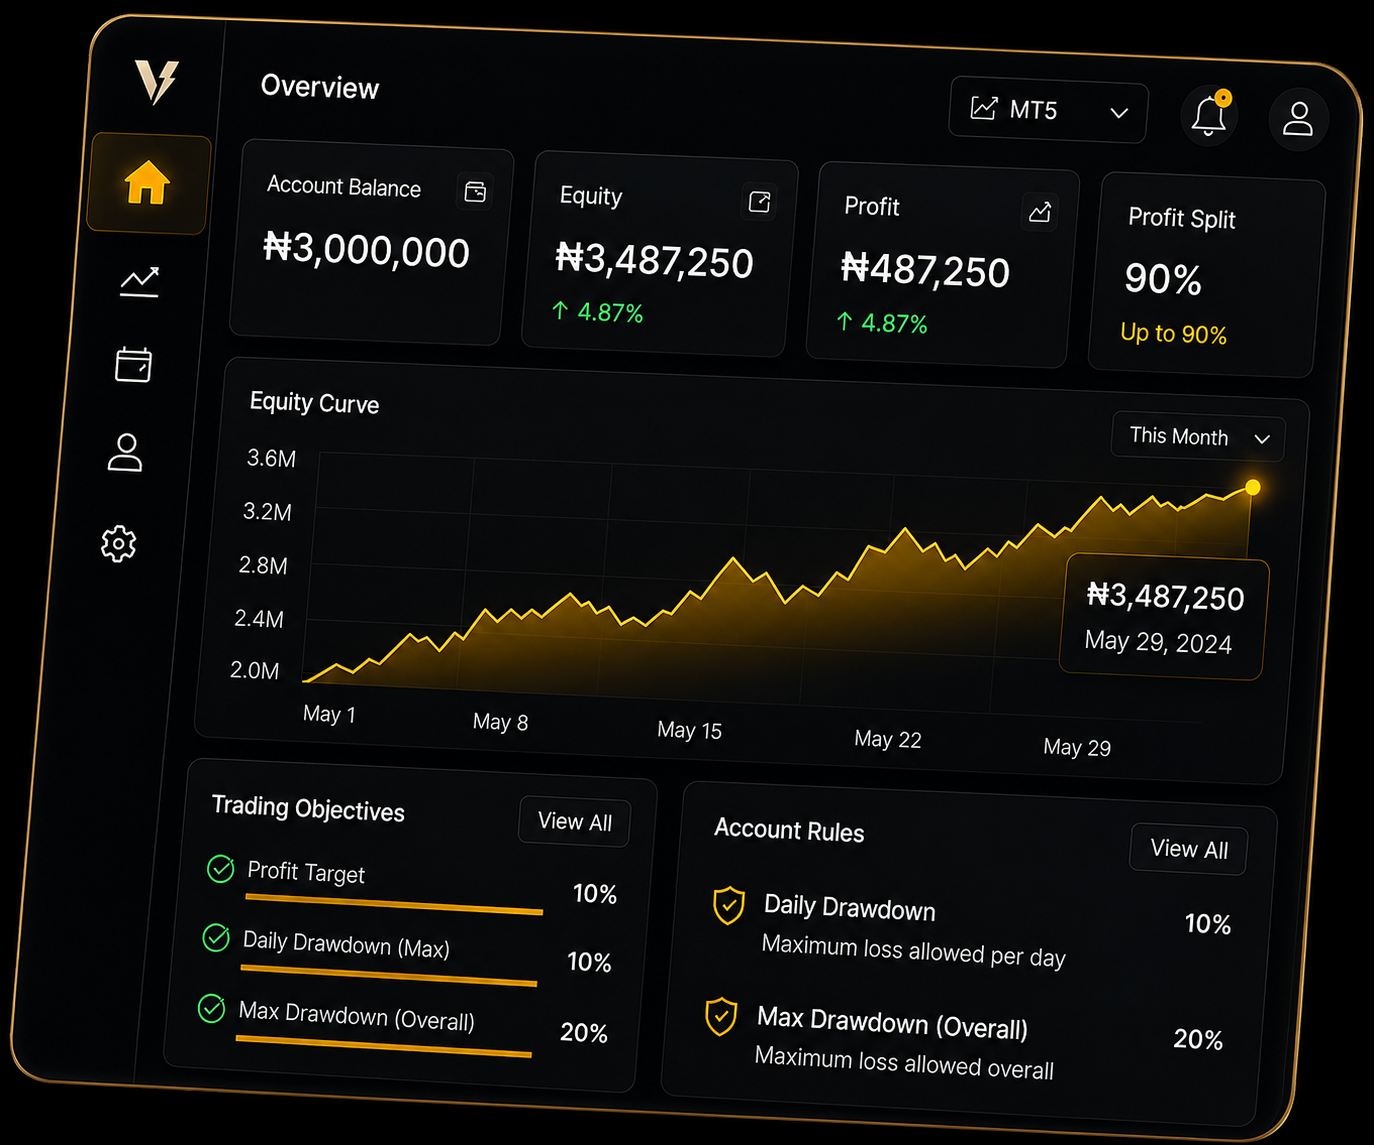
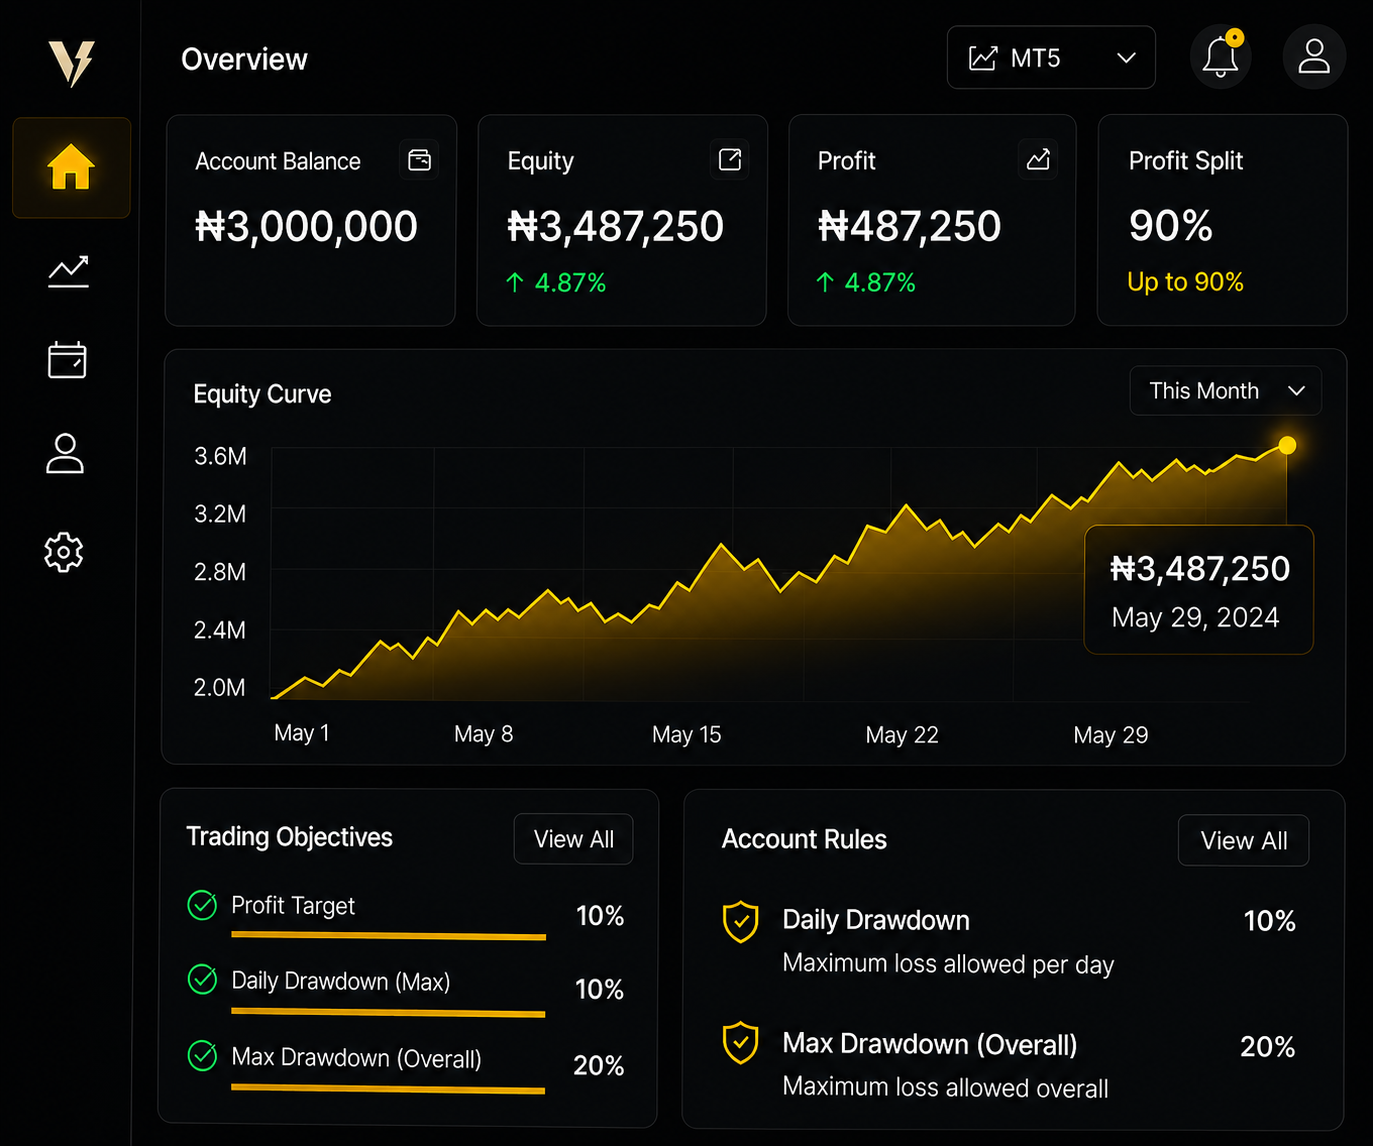
Homepage improvements before pricing section

diff --git a/src/components/hero/Hero.tsx b/src/components/hero/Hero.tsx
@@ -1,6 +1,5 @@
-import Image from "next/image";
 import { Button } from "@/components/ui/button";
-import { Banknote, ShieldCheck, Clock, Headphones, Lock, User } from "lucide-react";
+import { Banknote, ShieldCheck, Clock, Headphones, Lock } from "lucide-react";
 
 const features = [
   {
@@ -35,82 +34,56 @@ const features = [
   },
 ];
 
-const avatarColors = ["bg-amber-700", "bg-rose-700", "bg-emerald-700", "bg-sky-700"];
-
 export default function Hero() {
   return (
     <section className="relative overflow-hidden">
 
       <div className="absolute inset-0 bg-[radial-gradient(circle_at_75%_35%,rgba(212,175,55,.18),transparent_40%),radial-gradient(circle_at_20%_80%,rgba(212,175,55,.08),transparent_35%)]"></div>
 
-      {/* Background candlestick silhouettes */}
+      {/* Background candlestick staircase */}
       <svg
-        className="pointer-events-none absolute -left-16 bottom-0 h-[440px] w-[560px] opacity-[0.15]"
-        viewBox="0 0 560 440"
-        fill="none"
-      >
-        <line x1="40" y1="260" x2="40" y2="360" stroke="#D4AF37" strokeWidth="2" />
-        <rect x="28" y="280" width="24" height="60" fill="#D4AF37" />
-
-        <line x1="100" y1="220" x2="100" y2="330" stroke="#D4AF37" strokeWidth="2" />
-        <rect x="88" y="240" width="24" height="70" fill="#D4AF37" />
-
-        <line x1="160" y1="180" x2="160" y2="300" stroke="#D4AF37" strokeWidth="2" />
-        <rect x="148" y="200" width="24" height="55" fill="#D4AF37" />
-
-        <line x1="220" y1="150" x2="220" y2="270" stroke="#D4AF37" strokeWidth="2" />
-        <rect x="208" y="165" width="24" height="80" fill="#D4AF37" />
-
-        <line x1="280" y1="100" x2="280" y2="230" stroke="#D4AF37" strokeWidth="2" />
-        <rect x="268" y="120" width="24" height="65" fill="#D4AF37" />
-
-        <line x1="340" y1="70" x2="340" y2="190" stroke="#D4AF37" strokeWidth="2" />
-        <rect x="328" y="90" width="24" height="75" fill="#D4AF37" />
-
-        <line x1="400" y1="30" x2="400" y2="150" stroke="#D4AF37" strokeWidth="2" />
-        <rect x="388" y="50" width="24" height="60" fill="#D4AF37" />
-
-        <line x1="460" y1="0" x2="460" y2="110" stroke="#D4AF37" strokeWidth="2" />
-        <rect x="448" y="15" width="24" height="70" fill="#D4AF37" />
-      </svg>
-
-      {/* Faint curved golden light streaks */}
-      <svg
-        className="pointer-events-none absolute inset-0 h-full w-full opacity-[0.08]"
+        className="pointer-events-none absolute inset-0 h-full w-full opacity-[0.18]"
         viewBox="0 0 1600 900"
         fill="none"
         preserveAspectRatio="none"
       >
-        <defs>
-          <linearGradient id="heroStreakA" x1="0%" y1="100%" x2="100%" y2="0%">
-            <stop offset="0%" stopColor="#D4AF37" stopOpacity="0" />
-            <stop offset="50%" stopColor="#D4AF37" stopOpacity="1" />
-            <stop offset="100%" stopColor="#D4AF37" stopOpacity="0" />
-          </linearGradient>
-        </defs>
-        <path
-          d="M-100,700 C300,600 500,400 800,350 C1100,300 1300,150 1700,50"
-          stroke="url(#heroStreakA)"
-          strokeWidth="3"
-          strokeLinecap="round"
-        />
-        <path
-          d="M-100,800 C350,720 550,500 900,430"
-          stroke="url(#heroStreakA)"
-          strokeWidth="2"
-          strokeLinecap="round"
-        />
+        <line x1="60" y1="760" x2="60" y2="860" stroke="#D4AF37" strokeWidth="2" />
+        <rect x="48" y="780" width="24" height="60" fill="#D4AF37" />
+
+        <line x1="140" y1="700" x2="140" y2="820" stroke="#D4AF37" strokeWidth="2" />
+        <rect x="128" y="720" width="24" height="70" fill="#D4AF37" />
+
+        <line x1="220" y1="620" x2="220" y2="760" stroke="#D4AF37" strokeWidth="2" />
+        <rect x="208" y="650" width="24" height="70" fill="#D4AF37" />
+
+        <line x1="300" y1="560" x2="300" y2="700" stroke="#D4AF37" strokeWidth="2" />
+        <rect x="288" y="580" width="24" height="80" fill="#D4AF37" />
+
+        <line x1="380" y1="480" x2="380" y2="620" stroke="#D4AF37" strokeWidth="2" />
+        <rect x="368" y="510" width="24" height="70" fill="#D4AF37" />
+
+        <line x1="460" y1="400" x2="460" y2="540" stroke="#D4AF37" strokeWidth="2" />
+        <rect x="448" y="430" width="24" height="70" fill="#D4AF37" />
+
+        <line x1="540" y1="320" x2="540" y2="460" stroke="#D4AF37" strokeWidth="2" />
+        <rect x="528" y="350" width="24" height="70" fill="#D4AF37" />
+
+        <line x1="620" y1="240" x2="620" y2="380" stroke="#D4AF37" strokeWidth="2" />
+        <rect x="608" y="270" width="24" height="70" fill="#D4AF37" />
+
+        <line x1="700" y1="180" x2="700" y2="300" stroke="#D4AF37" strokeWidth="2" />
+        <rect x="688" y="210" width="24" height="60" fill="#D4AF37" />
       </svg>
 
-      <div className="relative mx-auto flex max-w-7xl items-center justify-between gap-12 px-8 py-10">
+      <div className="relative mx-auto flex max-w-[1440px] min-h-[600px] items-stretch justify-between gap-12 px-8 py-10">
 
         <div className="max-w-xl">
 
-          <div className="mb-5 inline-flex rounded-full border border-[#D4AF37]/30 bg-[#D4AF37]/10 px-5 py-2 text-sm text-[#D4AF37]">
+          <div className="mb-5 inline-flex rounded-full border border-[#D4AF37]/30 bg-[#D4AF37]/10 px-5 py-2 text-base text-[#D4AF37]">
             🇳🇬 Nigerian Prop Trading Firm
           </div>
 
-          <h1 className="mb-5 text-5xl font-extrabold leading-tight">
+          <h1 className="mb-5 text-6xl font-extrabold leading-tight">
             TRADE BIGGER,
             <br />
             KEEP MORE,
@@ -120,7 +93,7 @@ export default function Hero() {
             </span>
           </h1>
 
-          <p className="mb-5 text-base leading-7 text-zinc-400">
+          <p className="mb-5 text-lg leading-8 text-zinc-400">
             Voltex Funding empowers traders with up to{" "}
             <span className="font-semibold text-[#D4AF37]">
               ₦3,000,000
@@ -130,98 +103,50 @@ export default function Hero() {
 
           <div className="flex gap-4">
 
-            <Button className="bg-[#D4AF37] px-7 py-3.5 text-base text-black hover:bg-[#F5D573]">
+            <Button className="bg-[#D4AF37] px-8 py-4 text-lg text-black hover:bg-[#F5D573]">
               Start Challenge
             </Button>
 
-            <Button className="border border-[#D4AF37] bg-transparent px-7 py-3.5 text-base text-white hover:bg-[#D4AF37] hover:text-black">
+            <Button className="border border-[#D4AF37] bg-transparent px-8 py-4 text-lg text-white hover:bg-[#D4AF37] hover:text-black">
               View Pricing
             </Button>
 
           </div>
 
-          {/* Social proof */}
-          <div className="mt-7 flex items-center gap-4">
-            <div className="flex -space-x-3">
-              {avatarColors.map((bg, i) => (
-                <div
-                  key={i}
-                  className={`flex h-10 w-10 items-center justify-center rounded-full border-2 border-[#0a0a0a] ${bg}`}
-                >
-                  <User className="h-4 w-4 text-white/80" />
-                </div>
-              ))}
-            </div>
-
-            <p className="text-sm text-zinc-400">
-              Trusted by 2,500+ traders
-            </p>
-          </div>
-
         </div>
 
-        {/* Dashboard image */}
-        <div className="relative h-[440px] w-[460px] flex-shrink-0">
-
-          <div className="absolute -inset-16 rounded-[64px] bg-[#D4AF37]/25 blur-[130px]" />
-          <div className="absolute -inset-6 rounded-[48px] bg-[#D4AF37]/30 blur-[80px]" />
-
-          <svg
-            className="pointer-events-none absolute -inset-24 h-[calc(100%+12rem)] w-[calc(100%+12rem)] overflow-visible"
-            viewBox="0 0 900 900"
-            fill="none"
-          >
-            <defs>
-              <linearGradient id="dashStreak" x1="0%" y1="100%" x2="100%" y2="0%">
-                <stop offset="0%" stopColor="#D4AF37" stopOpacity="0" />
-                <stop offset="45%" stopColor="#D4AF37" stopOpacity="0.9" />
-                <stop offset="100%" stopColor="#F5D573" stopOpacity="0" />
-              </linearGradient>
-              <filter id="dashStreakBlur" x="-50%" y="-50%" width="200%" height="200%">
-                <feGaussianBlur stdDeviation="8" />
-              </filter>
-            </defs>
-            <path
-              d="M80,820 C300,650 350,450 500,320 C610,220 680,140 810,60"
-              stroke="url(#dashStreak)"
-              strokeWidth="5"
-              strokeLinecap="round"
-              filter="url(#dashStreakBlur)"
-            />
-          </svg>
-
-          <div className="absolute inset-0 origin-center rotate-[7deg] overflow-hidden rounded-[38px] border-2 border-[#D4AF37]/40 shadow-[0_40px_120px_rgba(0,0,0,.65),0_0_90px_rgba(212,175,55,.25)]">
-            <Image
+        {/* Dashboard image — frame hugs the image's actual rendered size */}
+        <div className="relative min-w-0 flex-1">
+          <div className="absolute inset-0 flex items-center justify-center">
+            {/* eslint-disable-next-line @next/next/no-img-element */}
+            <img
               src="/dashboard-preview.png"
               alt="Voltex Funding dashboard preview"
-              fill
-              className="object-cover"
-              priority
+              className="h-full w-auto max-w-full rounded-[38px] border-2 border-[#D4AF37]/40 shadow-[0_40px_120px_rgba(0,0,0,.65)]"
             />
           </div>
-
         </div>
 
       </div>
 
       {/* Feature strip */}
-      <div className="relative mx-auto max-w-7xl border-t border-[#D4AF37]/10 px-8 py-7">
+      <div className="relative mx-auto max-w-[1440px] border-t border-[#D4AF37]/10 px-8 py-7">
         <div className="grid grid-cols-1 divide-y divide-[#D4AF37]/10 sm:grid-cols-2 sm:divide-x sm:divide-y-0 lg:grid-cols-5">
           {features.map(({ icon: Icon, eyebrow, title, subtitle }) => (
             <div
               key={subtitle}
               className="flex items-center gap-4 px-5 py-5 first:pl-0 last:pr-0"
             >
-              <Icon className="h-9 w-9 flex-shrink-0 text-[#D4AF37] drop-shadow-[0_0_10px_rgba(212,175,55,0.45)]" />
+              <Icon className="h-10 w-10 flex-shrink-0 text-[#D4AF37] drop-shadow-[0_0_10px_rgba(212,175,55,0.45)]" />
 
               <div>
-                <p className="text-xs font-semibold tracking-wide text-[#D4AF37]">
+                <p className="text-sm font-semibold tracking-wide text-[#D4AF37]">
                   {eyebrow}
                 </p>
-                <p className="mt-0.5 text-base font-bold text-white">
+                <p className="mt-0.5 text-lg font-bold text-white">
                   {title}
                 </p>
-                <p className="mt-0.5 text-sm text-zinc-500">
+                <p className="mt-0.5 text-base text-zinc-500">
                   {subtitle}
                 </p>
               </div>

diff --git a/src/components/hero/Dashboard.tsx b/src/components/hero/Dashboard.tsx
@@ -14,7 +14,7 @@ import {
 
 export default function Dashboard() {
   return (
-    <div className="relative w-[840px] h-[880px] -translate-y-[70px] translate-x-[40px] rotate-[7deg]">
+    <div className="relative w-[840px] h-[880px] -translate-y-[70px] translate-x-[-10px] rotate-[7deg]">
 
       {/* Ambient glow — outer soft wash */}
       <div className="absolute -inset-28 rounded-[72px] bg-[#D4AF37]/25 blur-[150px]" />
@@ -265,29 +265,4 @@ export default function Dashboard() {
                 <button className="text-[11px] font-medium text-[#D4AF37]">View All</button>
               </div>
 
-              <div className="mt-3 space-y-4">
-                {[
-                  { label: "Daily Drawdown", desc: "Maximum loss allowed per day", value: "10%" },
-                  { label: "Max Drawdown (Overall)", desc: "Maximum loss allowed overall", value: "20%" },
-                ].map((item) => (
-                  <div key={item.label} className="flex items-start justify-between gap-2">
-                    <div className="flex items-start gap-2">
-                      <ShieldCheck className="mt-0.5 h-4 w-4 flex-shrink-0 text-[#D4AF37]" />
-                      <div>
-                        <p className="text-xs font-medium text-zinc-200">{item.label}</p>
-                        <p className="text-[11px] text-zinc-500">{item.desc}</p>
-                      </div>
-                    </div>
-                    <span className="flex-shrink-0 text-xs font-semibold text-zinc-300">
-                      {item.value}
-                    </span>
-                  </div>
-                ))}
-              </div>
-            </div>
-          </div>
-        </div>
-      </div>
-    </div>
-  );
-}
+              <div

diff --git a/src/components/layout/Navbar.tsx b/src/components/layout/Navbar.tsx
@@ -7,9 +7,9 @@ import { Button } from "@/components/ui/button";
 
 export default function Navbar() {
   return (
-    <header className="w-full pt-4">
-      <div className="w-full border-b border-[#D4AF37]/30 bg-[#090909]/95 py-2 shadow-[0_0_40px_rgba(212,175,55,.08)]">
-        <div className="mx-auto flex max-w-7xl items-center justify-between px-8">
+    <header className="w-full pt-2">
+      <div className="w-full border-b border-[#D4AF37]/30 bg-[#090909]/95 py-1.5 shadow-[0_0_40px_rgba(212,175,55,.08)]">
+        <div className="mx-auto flex max-w-[1440px] items-center justify-between px-8">
 
           {/* Logo */}
           <Link href="/" className="flex items-center">
@@ -19,22 +19,22 @@ export default function Navbar() {
               width={666}
               height={375}
               priority
-              className="h-32 w-auto drop-shadow-[0_0_14px_rgba(212,175,55,0.35)]"
+              className="h-28 w-auto brightness-110 drop-shadow-[0_0_20px_rgba(212,175,55,0.55)]"
             />
           </Link>
 
           {/* Navigation */}
           <nav className="ml-10 hidden items-center gap-10 lg:flex">
 
-            <Link href="/" className="relative text-base font-semibold text-[#D4AF37]">
+            <Link href="/" className="relative text-lg font-semibold text-[#D4AF37]">
               Home
               <span className="absolute -bottom-2 left-0 h-[2px] w-full rounded-full bg-[#D4AF37]" />
             </Link>
 
-            <Link href="#" className="text-base">Challenges</Link>
-            <Link href="#" className="text-base">Pricing</Link>
-            <Link href="#" className="text-base">Rules</Link>
-            <Link href="#" className="text-base">FAQ</Link>
+            <Link href="#" className="text-lg">Challenges</Link>
+            <Link href="#" className="text-lg">Pricing</Link>
+            <Link href="#" className="text-lg">Rules</Link>
+            <Link href="#" className="text-lg">FAQ</Link>
 
           </nav>
 
@@ -43,13 +43,13 @@ export default function Navbar() {
 
             <Link
               href="/login"
-              className="flex items-center gap-2 rounded-xl px-4 py-2 text-base font-medium text-white transition-all duration-300 hover:bg-[#D4AF37]/10 hover:text-[#D4AF37]"
+              className="flex items-center gap-2 rounded-xl px-4 py-2 text-lg font-medium text-white transition-all duration-300 hover:bg-[#D4AF37]/10 hover:text-[#D4AF37]"
             >
-              <User size={18} />
+              <User size={20} />
               Login
             </Link>
 
-            <Button className="h-11 rounded-xl bg-[#D4AF37] px-6 text-base font-semibold text-black hover:bg-[#F5D573]">
+            <Button className="h-12 rounded-xl bg-[#D4AF37] px-7 text-lg font-semibold text-black hover:bg-[#F5D573]">
               Start Challenge →
             </Button>
 